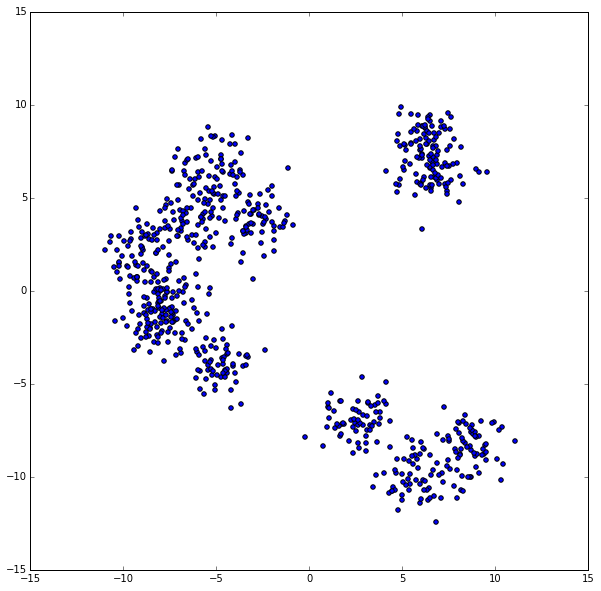
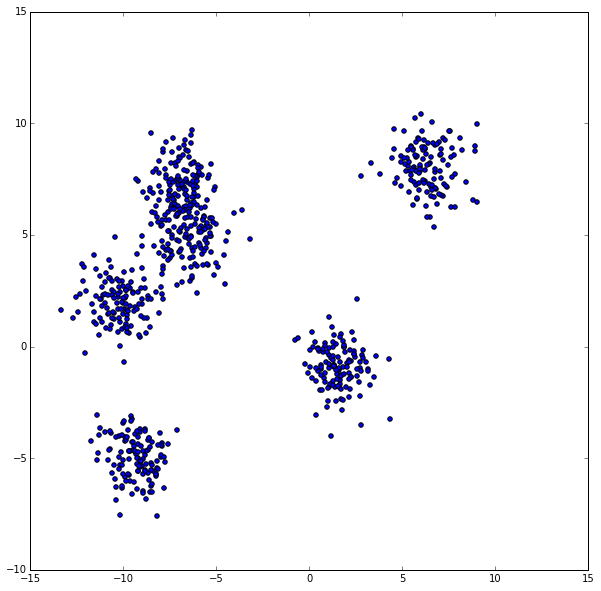
Update readme with example

diff --git a/README.md b/README.md
@@ -43,7 +43,7 @@ plt.rcParams['figure.figsize'] = 10, 10
 
 
 ```python
-x, y = make_blobs(750, n_features=2, centers=12)
+x, y = make_blobs(750, n_features=2, centers=6)
 
 plt.scatter(x[:, 0], x[:, 1])
 plt.show()
@@ -55,6 +55,7 @@ plt.show()
 
 
 ```python
+# Give the data to optimalK with maximum considered clusters of 15
 n, gapdf = optimalK(x, nrefs=3, maxClusters=15)
 print 'Optimal Clusters: ', n
 
@@ -67,7 +68,7 @@ plt.title('Gap Values by Cluster Count')
 plt.show()
 ```
 
-    Optimal Clusters:  11
+    Optimal Clusters:  6
 
 
 
@@ -76,6 +77,7 @@ plt.show()
 
 
 ```python
+# Now that we have the optimal clusters, n, we build our own KMeans model...
 km = KMeans(n)
 km.fit(x)
 
